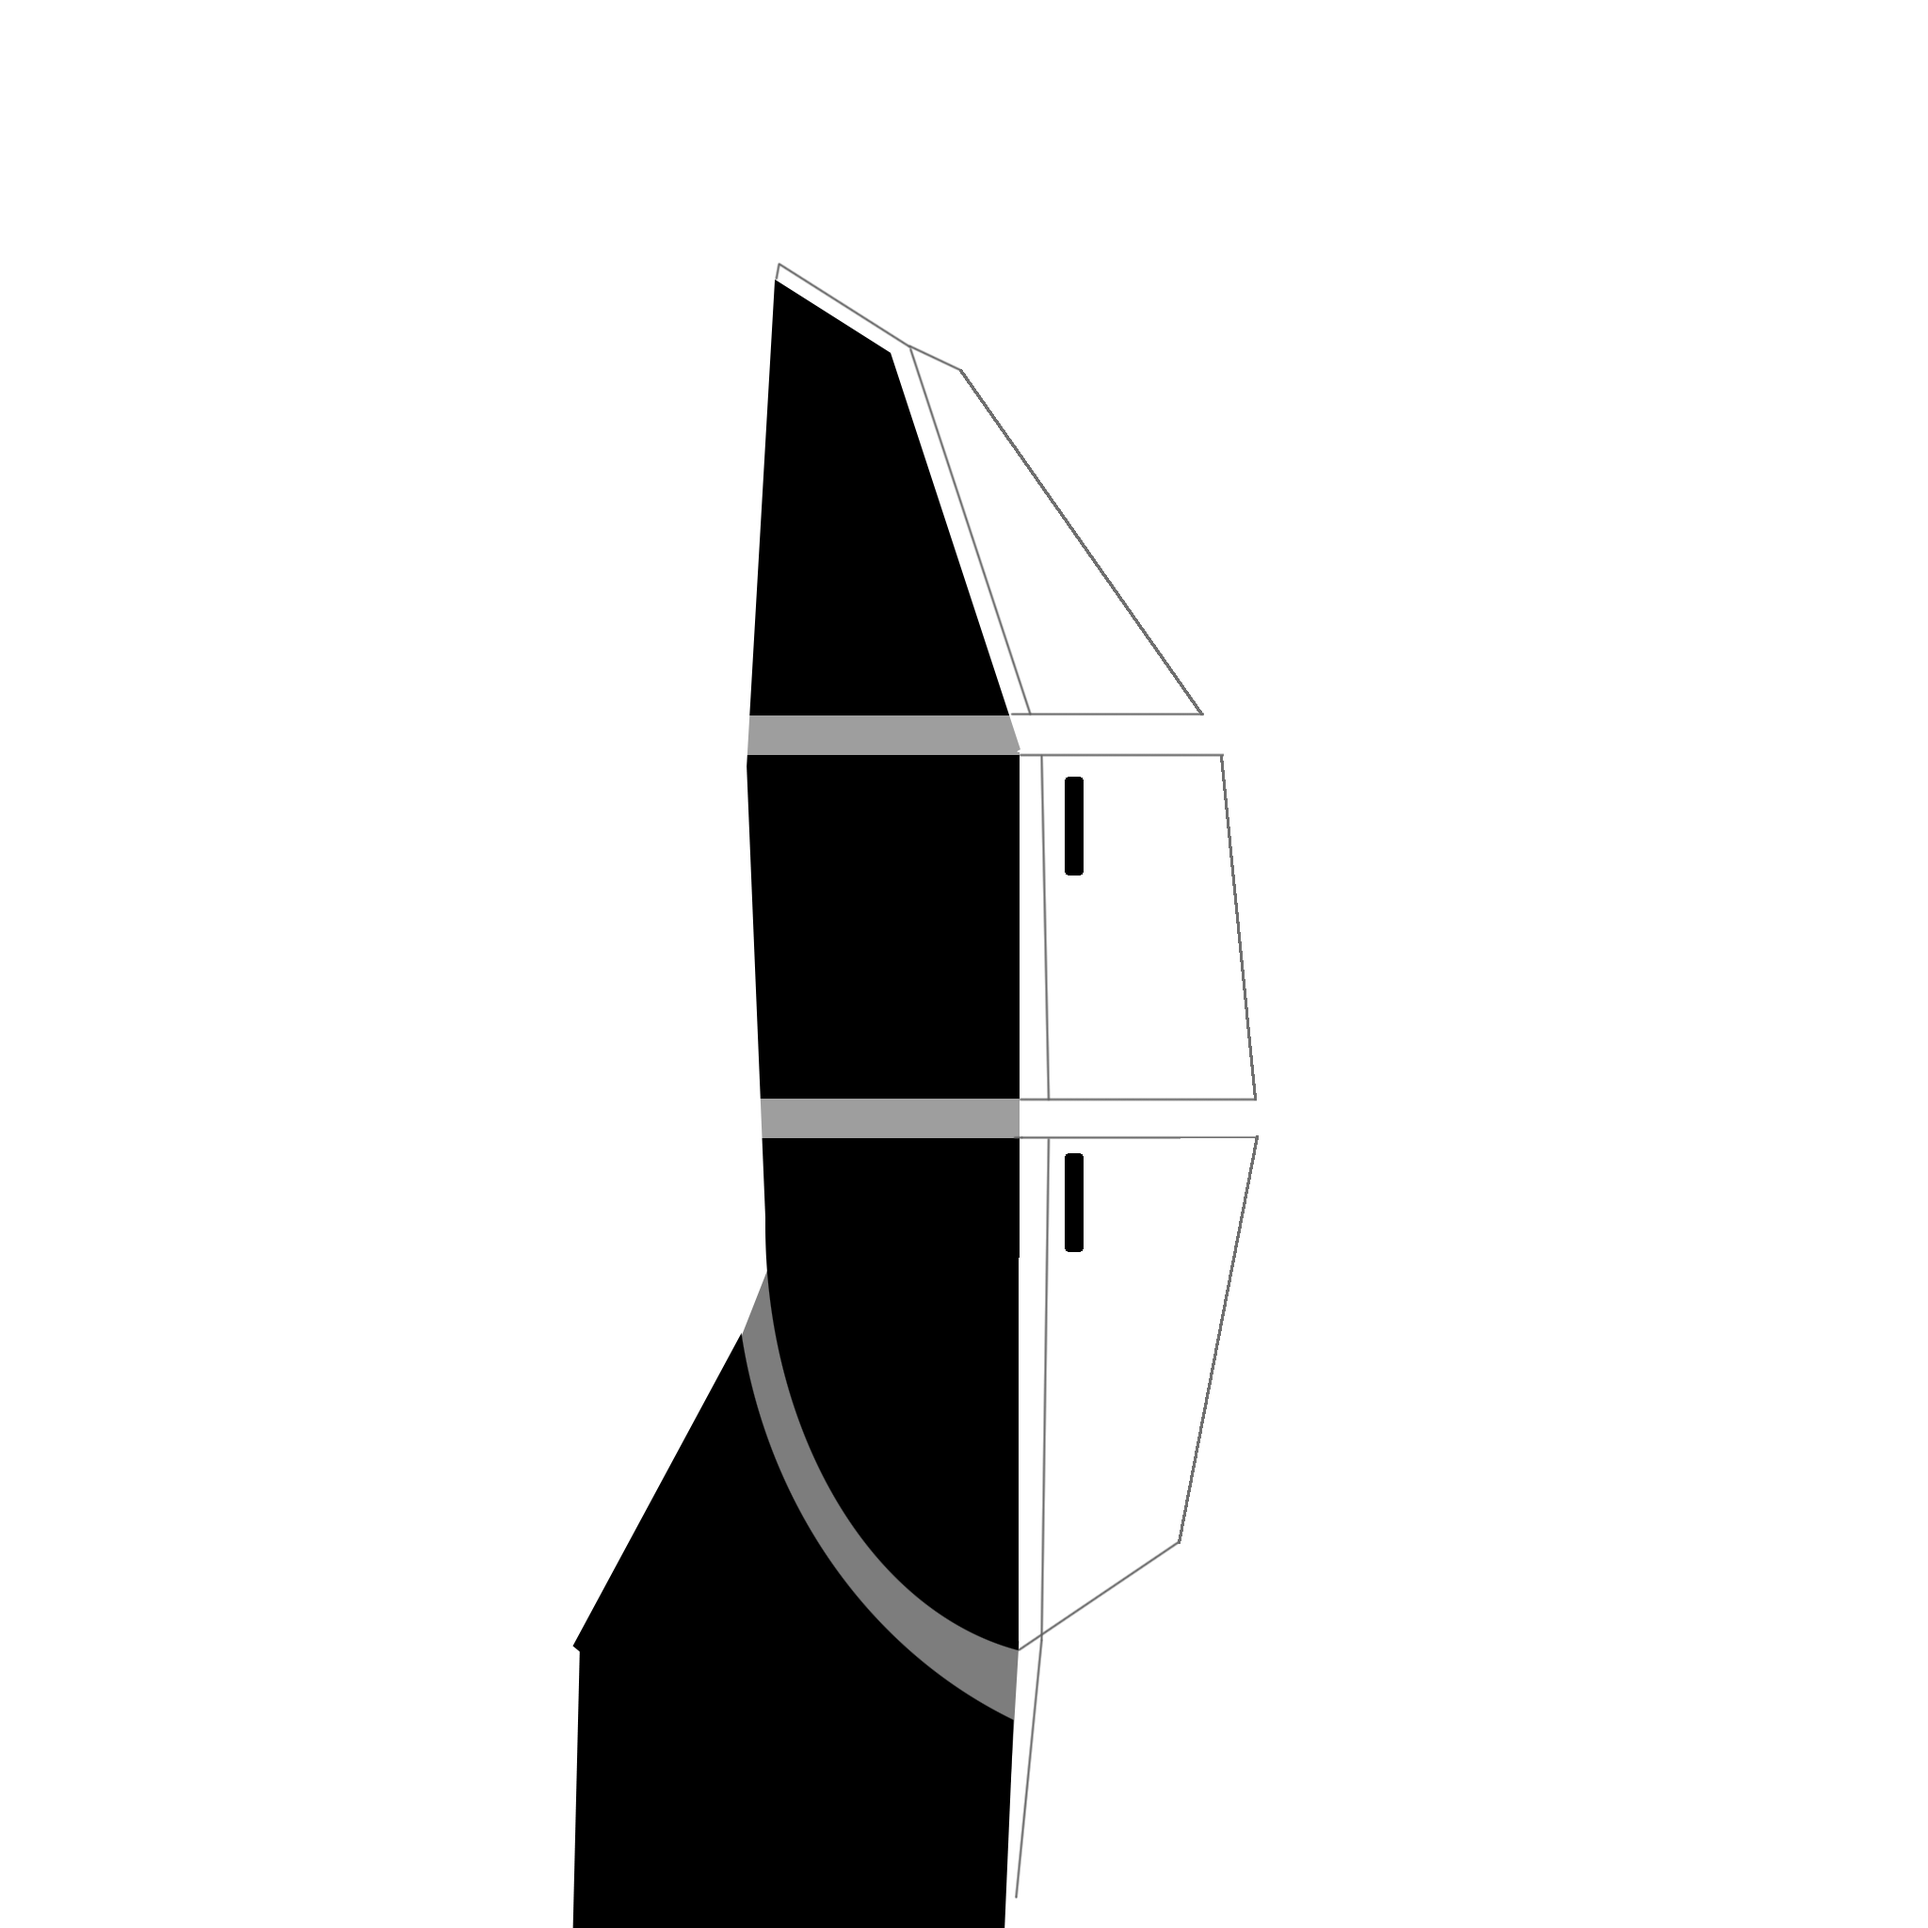
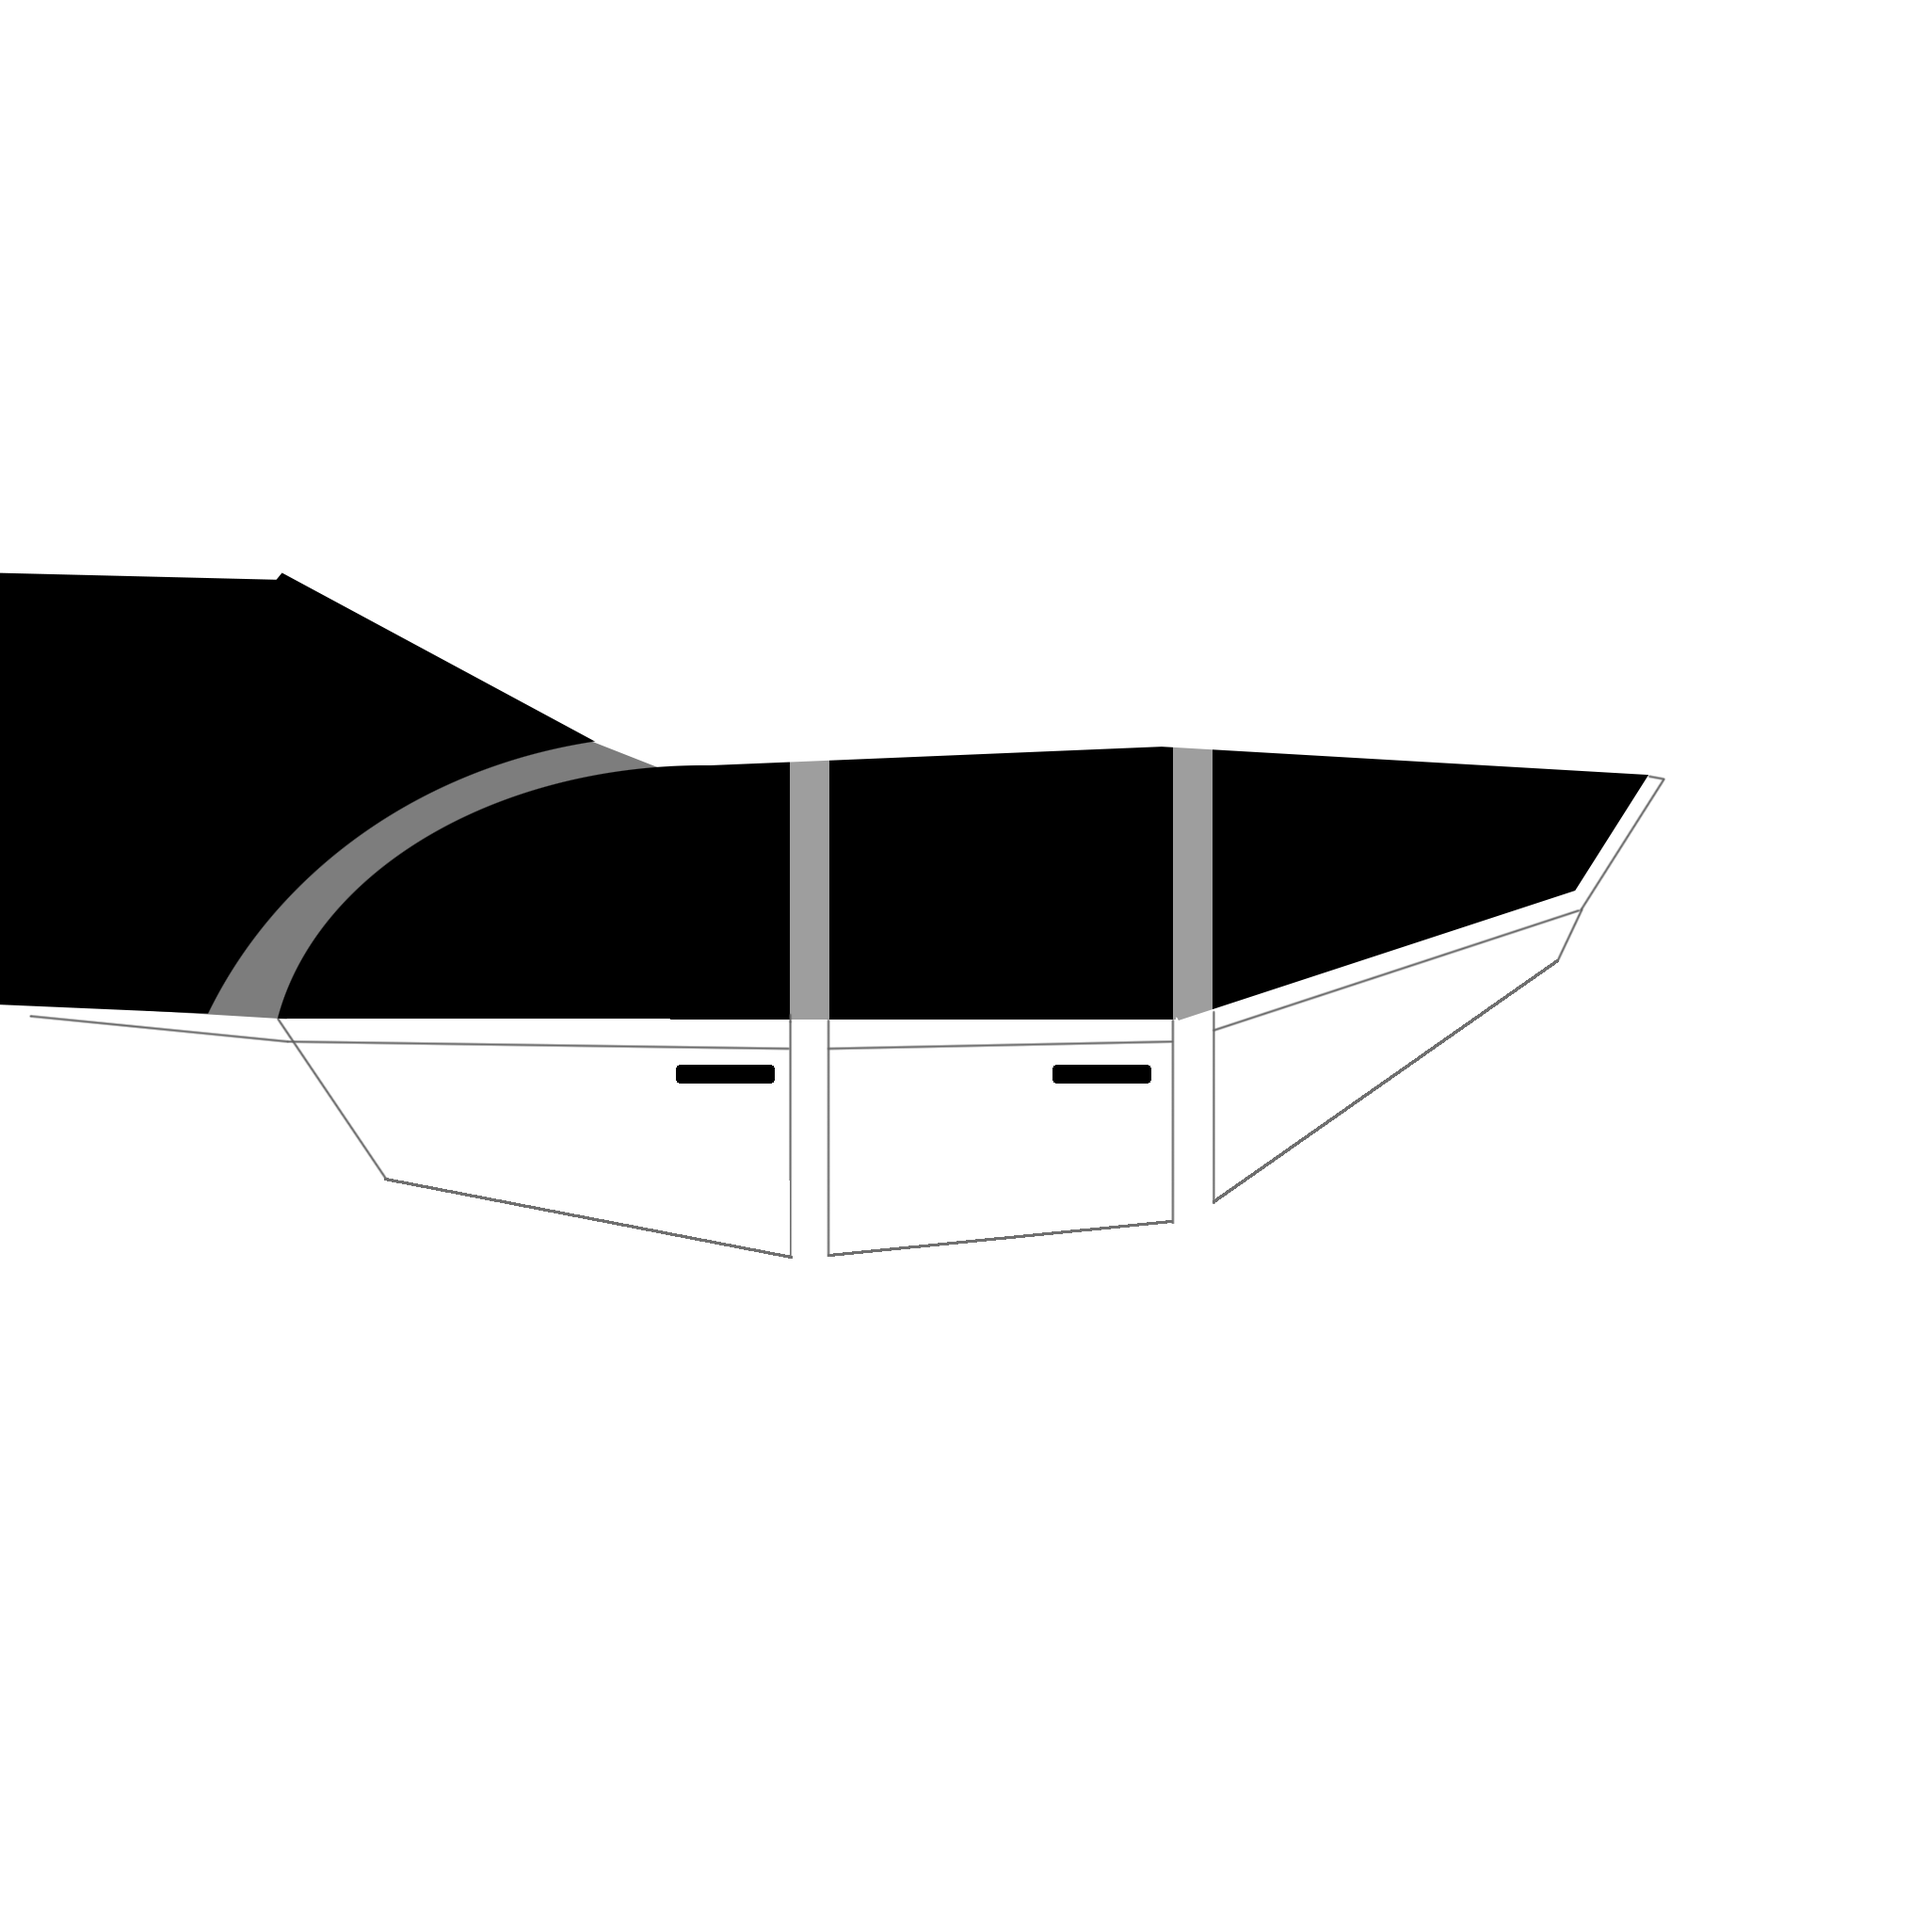
intento textura helicoptero

Changed region(s): [[0.0, 0.125, 0.875, 1.0]]

diff --git a/TP1 - Sistemas Gráficos/modulo-geometria.js b/TP1 - Sistemas Gráficos/modulo-geometria.js
@@ -45,9 +45,9 @@ function SuperficieBarrido(forma, matricesModelado, matricesNormales, niveles, v
         return [1,0,1];
     }
 
-    this.getCoordenadasTextura=function(u,v){
-        //u = niveles - niveles*(filas / (3*columnas - 2 - 1));
-        //v = vertices - vertices*(columnas / (filas - 1));
+    this.getCoordenadasTextura=function(u,v,i,j){
+        u = 4 - 4*(j / (3*columnas - 2 - 1));
+        v = 1 - 1*(i / (filas - 1));
         return [u,v];
     }
 }
@@ -192,7 +192,7 @@ function generarSuperficie(superficie,filas,columnas){
             normalBuffer.push(nrm[1]);
             normalBuffer.push(nrm[2]);
 
-            var uvs=superficie.getCoordenadasTextura(u,v);
+            var uvs=superficie.getCoordenadasTextura(u,v,i,j);
             uvBuffer.push(uvs[0]);
             uvBuffer.push(uvs[1]);
 
